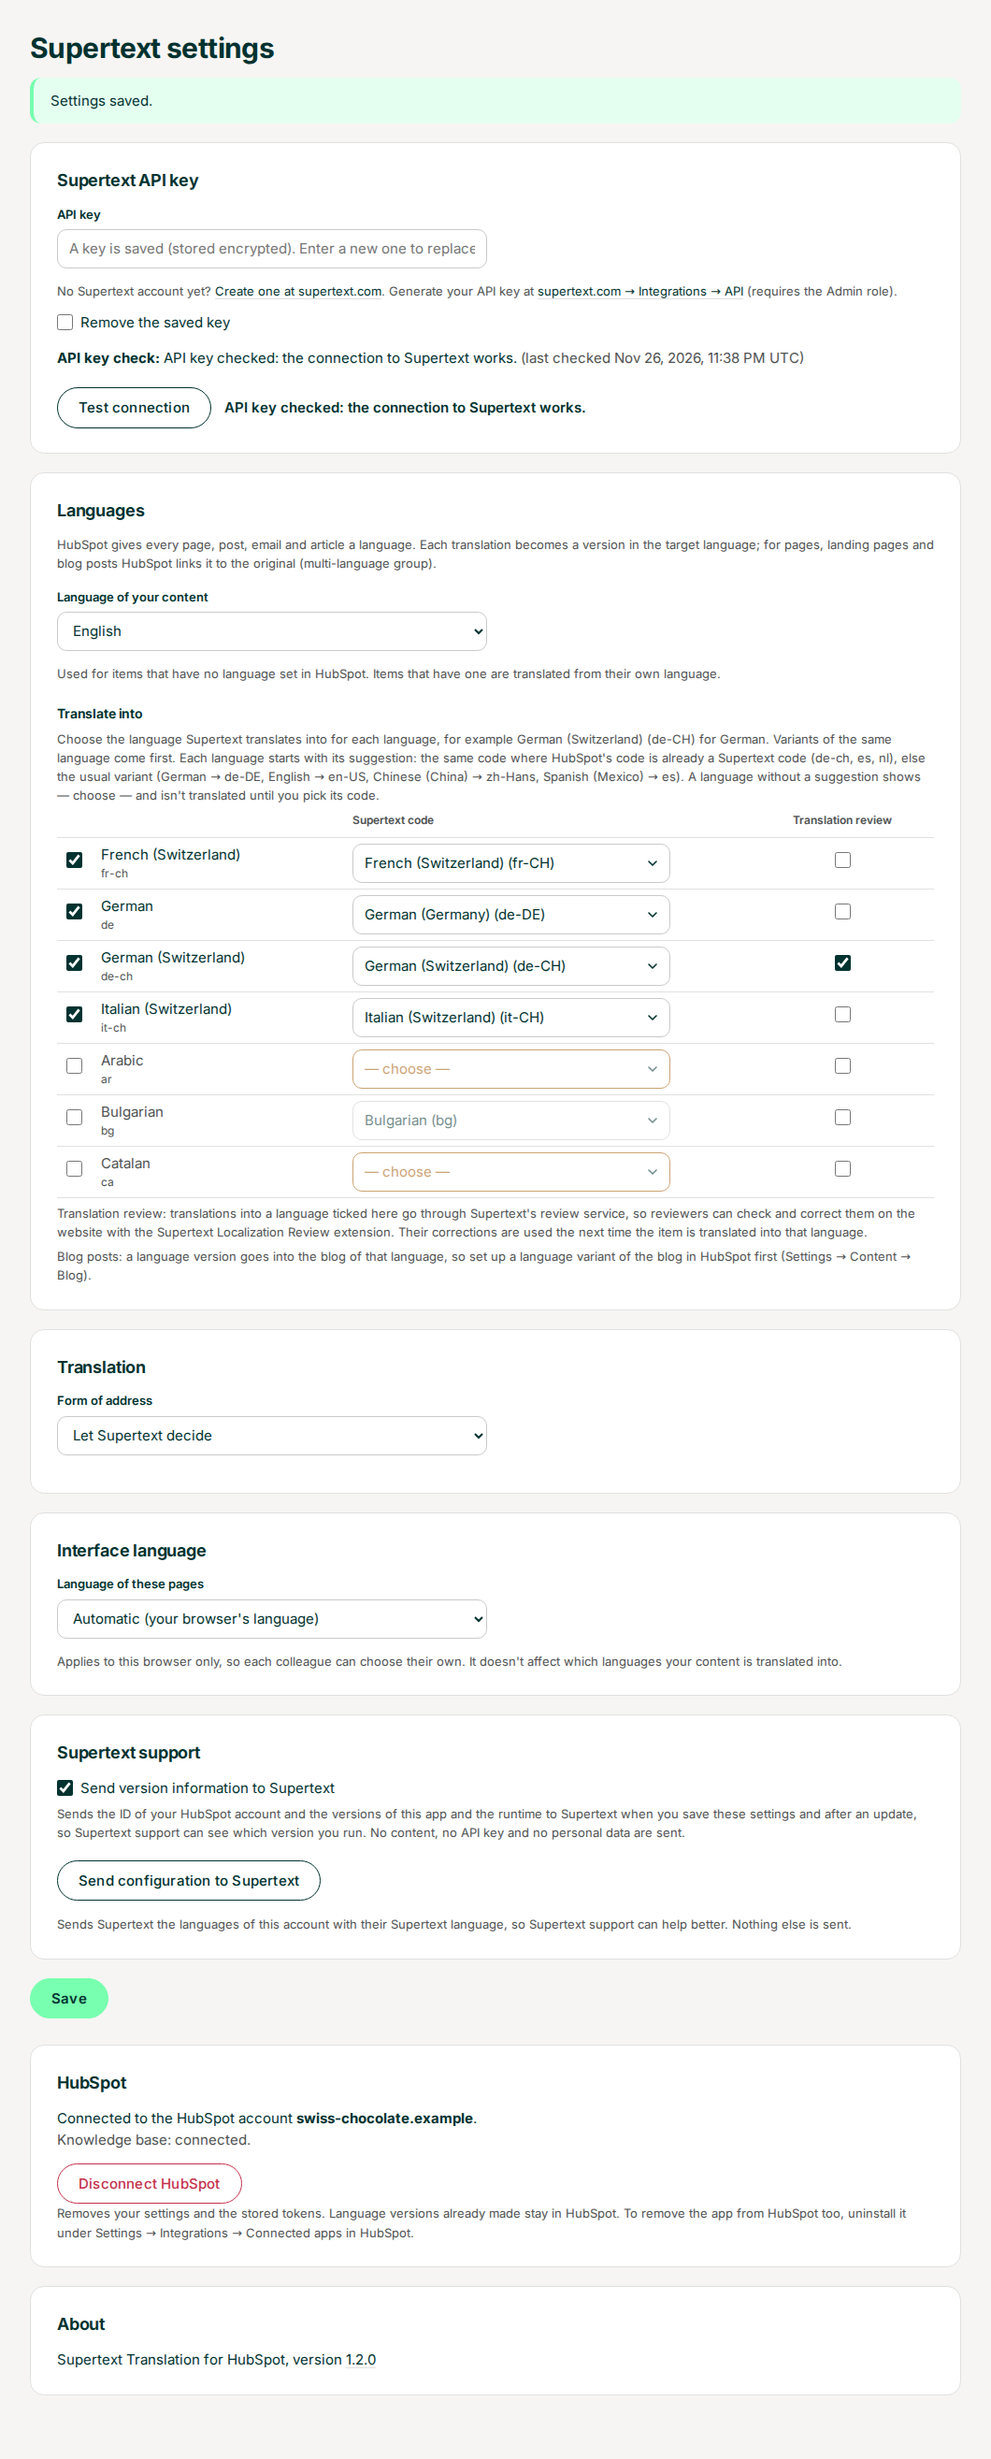
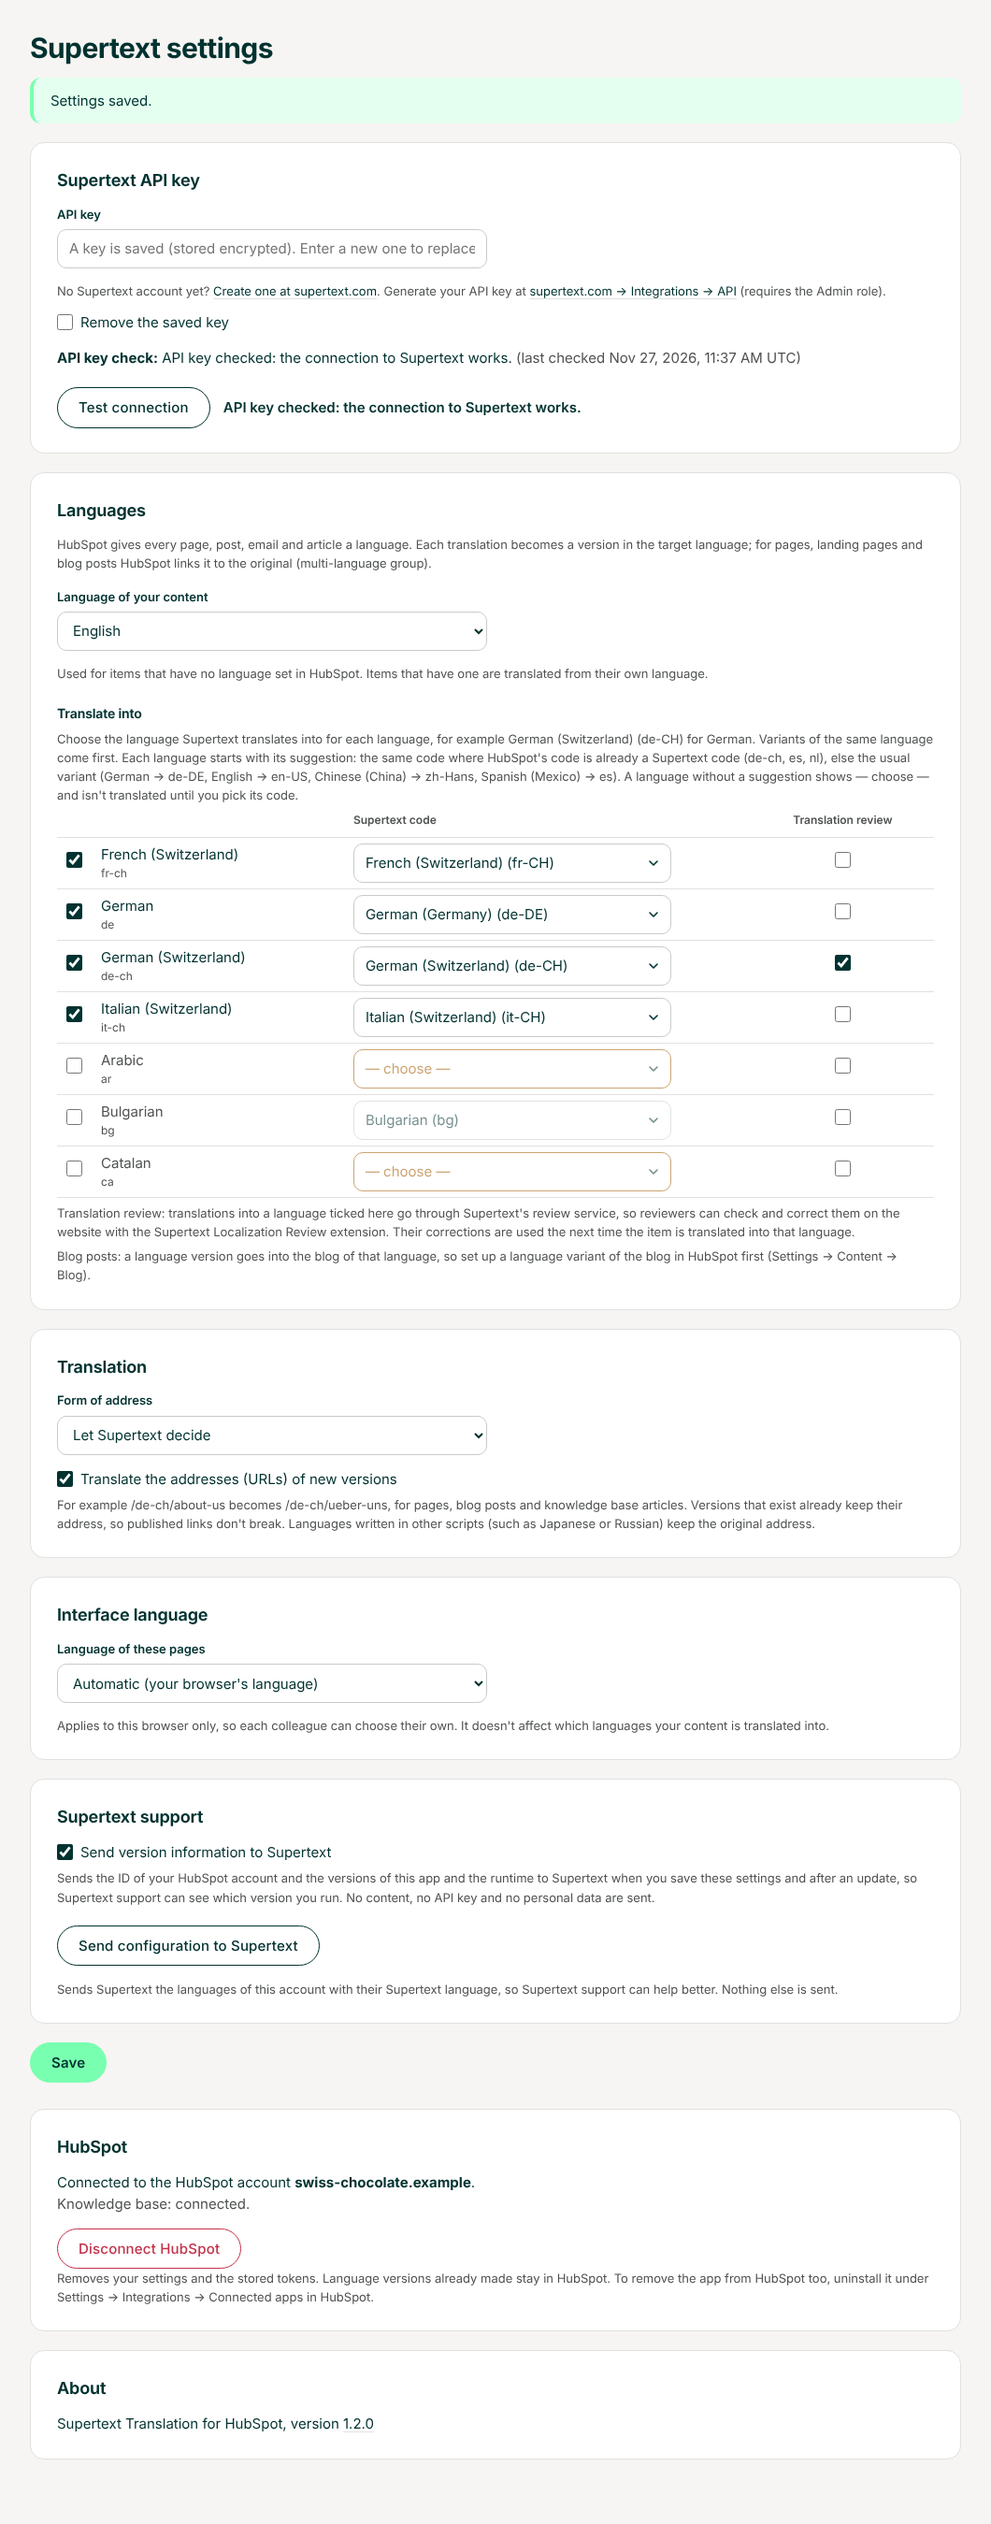
Translate the addresses (URLs) of new language versions
HubSpot gives a page or post variant the original's slug with the
language in front (de-ch/about-us) and an article translation the
original's path (seen on a real account). The last part of the address
now travels as words in the same Supertext request and comes back as an
ASCII slug in the target language (de-ch/ueber-uns, de-ch/blog/...),
written in a separate PATCH so a refused address leaves the original's.
Only for versions the app has just made: existing ones keep their
address so published links don't break. Setting under Settings ->
Translation, on by default. Live E2E checks the address.

Claude-Session: https://claude.ai/code/session_01AU3tag45efgDojCNg2Fhnj

Changed region(s): [[0.0311, 0.0, 0.934, 0.9669], [0.6538, 0.8733, 0.9028, 0.9045], [0.716, 0.655, 0.8406, 0.6862]]

diff --git a/src/translation/translate.ts b/src/translation/translate.ts
@@ -11,6 +11,7 @@ import {
 import type { Extraction } from '../hubspot/extract.js';
 import type { Politeness, SupertextClient } from '../supertext/client.js';
 import type { JobItem } from '../store/store.js';
+import { slugify, slugWords, withLastPart } from './slug.js';
 
 /**
  * One item × one language: make the language version (unless it exists), translate its texts in
@@ -43,7 +44,12 @@ export interface TranslateArgs {
   overwrite: boolean;
   /** HubSpot code of the source's language when the page has none set (create-language-variation needs it). */
   primaryLanguage: string;
+  /** Translate the address of a new version (Settings → Translation); not with an imported file. */
+  translateUrls?: boolean;
 }
+
+/** Where an item keeps its address: a page's or post's slug, an article's path; emails have none. */
+const ADDRESS: Partial<Record<Kind, 'slug' | 'path'>> = { 'site-page': 'slug', 'landing-page': 'slug', 'blog-post': 'slug', 'kb-article': 'path' };
 
 export type TranslateResult = Pick<JobItem, 'state' | 'targetId'>;
 
@@ -51,18 +57,27 @@ export async function translateItem(args: TranslateArgs): Promise<TranslateResul
   const { client, kind, source, existingId } = args;
   if (existingId && !args.overwrite) return { state: 'kept', targetId: existingId };
   const { extraction, fields } = extractItem(kind, args.draft);
+  // A new version's address travels as words with the other texts, in the same request.
+  const address = ADDRESS[kind];
+  const words =
+    address && args.translateUrls && !existingId && !args.produce ? slugWords(String(args.draft[address] ?? source[address] ?? '')) : '';
+  let slugPart = '';
 
   /** Translates and checks every segment (HubL tokens) before anything is written; returns the fields to write. */
   const translate = async (): Promise<Record<string, unknown>> => {
     const segments = extraction.segments;
+    const texts = segments.map((segment) => segment.html);
+    if (words) texts.push(words.replace(/&/g, '&amp;').replace(/</g, '&lt;'));
     const translated = args.produce
       ? args.produce(extraction)
-      : segments.length === 0
+      : texts.length === 0
         ? []
-        : await args.supertext!.translateSegments(
-            segments.map((segment) => segment.html),
-            { targetLanguage: args.supertextTarget, sourceLanguage: args.sourceLanguage, politeness: args.politeness },
-          );
+        : await args.supertext!.translateSegments(texts, {
+            targetLanguage: args.supertextTarget,
+            sourceLanguage: args.sourceLanguage,
+            politeness: args.politeness,
+          });
+    if (words) slugPart = slugify(translated.pop() ?? '', args.language);
     extraction.apply(translated);
     return fields();
   };
@@ -85,6 +100,14 @@ export async function translateItem(args: TranslateArgs): Promise<TranslateResul
     // Don't leave an untranslated copy behind.
     await removeItem(client, kind, String(created.id)).catch(() => undefined);
     throw error;
+  }
+  if (address && slugPart) {
+    // On its own: if HubSpot refuses the address (one that is taken), the version keeps the original's.
+    const current = String(created[address] ?? source[address] ?? '');
+    const translated = withLastPart(current, slugPart);
+    if (current && translated !== current) {
+      await updateDraft(client, kind, String(created.id), { [address]: translated }).catch(() => undefined);
+    }
   }
   return { state: 'created', targetId: String(created.id) };
 }

diff --git a/tests/flow.test.ts b/tests/flow.test.ts
@@ -92,6 +92,37 @@ describe('website pages', () => {
     expect(after).not.toContain('Über uns'); // variants aren't listed as items of their own
   });
 
+  it("translates a new version's address, and keeps the address of an existing one", async () => {
+    const env = setup();
+    await env.connect();
+    await env.saveSettings([...STANDARD_SETTINGS, ['target', 'it-ch']]);
+    await env.translate('site-page', '101', ['de-ch', 'fr-ch', 'it-ch']);
+    expect(version(env, 'site-page', '101', 'de-ch')!.slug).toBe('de-ch/ueber-uns');
+    expect(version(env, 'site-page', '101', 'fr-ch')!.slug).toBe('fr-ch/a-propos-de-nous');
+    expect(version(env, 'site-page', '101', 'it-ch')!.slug).toBe('it-ch/chi-siamo');
+    // The words travel in the same Supertext request as the other texts.
+    expect(env.supertext.documents.length).toBe(3);
+
+    // An existing version keeps its address, even when its draft is translated again.
+    const german = version(env, 'site-page', '101', 'de-ch')!;
+    env.hubspot.edit(String(german.id), { slug: 'de-ch/unsere-geschichte' });
+    await env.translate('site-page', '101', ['de-ch'], true);
+    expect(version(env, 'site-page', '101', 'de-ch')!.slug).toBe('de-ch/unsere-geschichte');
+
+    // Blog posts keep the blog's part of the address.
+    await env.translate('blog-post', '301', ['de-ch']);
+    expect(version(env, 'blog-post', '301', 'de-ch')!.slug).toBe('de-ch/blog/roesten');
+  });
+
+  it('keeps the original address when the setting is off', async () => {
+    const env = setup();
+    await env.connect();
+    await env.saveSettings(STANDARD_SETTINGS.filter(([name]) => name !== 'translateUrls'));
+    await env.translate('site-page', '101', ['de-ch']);
+    expect(version(env, 'site-page', '101', 'de-ch')!.slug).toBe('de-ch/about-us');
+    expect((await env.store.getAccount(PORTAL_ID))!.translateUrls).toBe(false);
+  });
+
   it('keeps existing versions unless asked to update their drafts', async () => {
     const env = setup();
     await env.connect();
@@ -232,7 +263,8 @@ describe('knowledge base', () => {
       title: 'Wie verfolge ich meine Bestellung?',
       subtitle: 'Finden Sie Ihr Paket mit wenigen Klicks',
       metaDescription: 'Ihre Schokoladenbestellung verfolgen',
-      path: 'track-my-order',
+      // The address is translated too (Settings → Translation, on by default).
+      path: 'bestellung-verfolgen',
       state: 'DRAFT',
       translationOfId: '501',
       tagIds: [],

diff --git a/src/translation/slug.ts b/src/translation/slug.ts
@@ -1,0 +1,47 @@
+// Translated addresses: the last part of a slug ("about-us") travels to Supertext as words
+// ("about us") with the other texts, and comes back as a slug in the target language
+// ("ueber-uns"). ASCII only, as HubSpot's own slugs: umlauts are written out in German
+// (ü → ue), other accents dropped (é → e). A language whose words don't fit in ASCII
+// (Japanese, Russian, Greek …) keeps the original slug.
+
+/** The words of a slug's last part ("blog/how-we-roast" → "how we roast"); '' if there are none. */
+export function slugWords(slug: string): string {
+  const last = slug.split('/').filter(Boolean).pop() ?? '';
+  // HubSpot's placeholder for a post without a title yet.
+  if (/^-?temporary-slug-/.test(last)) return '';
+  return last.replace(/[-_]+/g, ' ').trim();
+}
+
+const ENTITIES: Record<string, string> = { amp: '&', lt: '<', gt: '>', quot: '"', apos: "'", nbsp: ' ' };
+
+/** Translated words → a slug part ("Über uns" → "ueber-uns"); '' if nothing ASCII is left. */
+export function slugify(text: string, language: string): string {
+  let s = text
+    .replace(/<[^>]*>/g, ' ')
+    .replace(/&(#\d+|#x[\da-f]+|\w+);/gi, (all, name: string) =>
+      name[0] === '#' ? String.fromCodePoint(Number(name[1] === 'x' || name[1] === 'X' ? `0${name.slice(1)}` : name.slice(1))) : ENTITIES[name.toLowerCase()] ?? all,
+    )
+    .toLowerCase();
+  if (/^(de|gsw)\b/i.test(language)) s = s.replace(/ä/g, 'ae').replace(/ö/g, 'oe').replace(/ü/g, 'ue');
+  s = s
+    .replace(/ß/g, 'ss')
+    .replace(/æ/g, 'ae')
+    .replace(/ø/g, 'o')
+    .replace(/œ/g, 'oe')
+    .replace(/ł/g, 'l')
+    .replace(/đ/g, 'd')
+    .normalize('NFKD')
+    .replace(/[̀-ͯ]/g, '')
+    .replace(/['’]/g, '')
+    .replace(/[^a-z0-9]+/g, '-')
+    .replace(/^-+|-+$/g, '');
+  if (s.length > 80) s = s.slice(0, 80).replace(/-[^-]*$/, '');
+  return s;
+}
+
+/** The new slug: the version's own prefix ("de-ch/blog/") with the translated last part. */
+export function withLastPart(slug: string, part: string): string {
+  const parts = slug.split('/');
+  parts[parts.length - 1] = part;
+  return parts.join('/');
+}

diff --git a/tests/slug.test.ts b/tests/slug.test.ts
@@ -1,0 +1,37 @@
+import { describe, expect, it } from 'vitest';
+import { slugify, slugWords, withLastPart } from '../src/translation/slug.js';
+
+describe('translated addresses', () => {
+  it("takes the words of a slug's last part", () => {
+    expect(slugWords('blog/how-we-roast-our-cocoa-beans')).toBe('how we roast our cocoa beans');
+    expect(slugWords('en/about_us')).toBe('about us');
+    expect(slugWords('blog/-temporary-slug-eedeba05-30b4')).toBe('');
+    expect(slugWords('')).toBe('');
+  });
+
+  it('makes an ASCII slug in the way of the language', () => {
+    expect(slugify('Über uns', 'de-ch')).toBe('ueber-uns');
+    expect(slugify('Fünf Tipps zum Aufbewahren von Schokolade', 'de')).toBe('fuenf-tipps-zum-aufbewahren-von-schokolade');
+    expect(slugify('À propos de nous', 'fr-ch')).toBe('a-propos-de-nous');
+    expect(slugify('Calendario dell’Avvento 2026', 'it-ch')).toBe('calendario-dellavvento-2026');
+    expect(slugify('Ödeme &amp; teslimat', 'tr')).toBe('odeme-teslimat');
+    expect(slugify('Straße', 'de')).toBe('strasse');
+    expect(slugify('Łódź', 'pl')).toBe('lodz');
+  });
+
+  it("gives nothing for a script that doesn't fit in an address, so the original stays", () => {
+    expect(slugify('私たちについて', 'ja')).toBe('');
+    expect(slugify('О нас', 'ru')).toBe('');
+  });
+
+  it("keeps the version's own prefix", () => {
+    expect(withLastPart('de-ch/blog/how-we-roast', 'wie-wir-roesten')).toBe('de-ch/blog/wie-wir-roesten');
+    expect(withLastPart('track-my-order', 'bestellung-verfolgen')).toBe('bestellung-verfolgen');
+  });
+
+  it('keeps addresses short', () => {
+    const long = slugify('ein '.repeat(40) + 'Ende', 'de');
+    expect(long.length).toBeLessThanOrEqual(80);
+    expect(long.endsWith('-')).toBe(false);
+  });
+});

diff --git a/tests/standin/hubspot.ts b/tests/standin/hubspot.ts
@@ -39,6 +39,8 @@ export interface HubSpotStandin {
   withoutKnowledgeBase(): void;
   /** Sets an item's state, as publishing or sending it in HubSpot would. */
   setState(id: string, state: string): void;
+  /** Changes fields of an item, live and draft (an editor's change in HubSpot). */
+  edit(id: string, fields: Record<string, unknown>): void;
 }
 
 const PATHS: [Kind, RegExp][] = [
@@ -110,6 +112,10 @@ export function createHubSpotStandin(): HubSpotStandin {
     },
     withoutKnowledgeBase: () => {
       kb = false;
+    },
+    edit: (id, fields) => {
+      const entry = entries.get(id);
+      if (entry) for (const item of [entry.live, entry.draft]) Object.assign(item, structuredClone(fields));
     },
     setState: (id, value) => {
       const entry = entries.get(id);
@@ -205,6 +211,8 @@ export function createHubSpotStandin(): HubSpotStandin {
         }
         const id = String(nextId++);
         const copy: Item = { ...structuredClone(source.draft), id, language, translatedFromId: source.live.id, state: 'DRAFT', currentlyPublished: false };
+        // HubSpot puts the language in front of the original's slug ("blog/roasting" → "de-ch/blog/roasting", seen 26 November 2026).
+        if (typeof source.draft.slug === 'string') copy.slug = `${language}/${source.draft.slug}`;
         entries.set(id, { kind, live: copy, draft: structuredClone(copy), archived: false, group: source.group });
         return json(view(entries.get(id)!, 'live'));
       }

diff --git a/tests/e2e/live.ts b/tests/e2e/live.ts
@@ -198,6 +198,17 @@ function versions(kind: Kind, id: string): Map<string, Item[]> {
 /** Checks one language version against its source. */
 function checkVersion(tag: string, kind: Kind, source: Item, version: Item, lang: string): void {
   check(`${tag}: a draft, not published or sent`, version.state === 'DRAFT' && !version.currentlyPublished && !version.isPublished, String(version.state));
+  // Translate the addresses (on by default): a new version gets an ASCII address in its language, with HubSpot's prefix.
+  const address = kind === 'kb-article' ? 'path' : kind === 'email' ? '' : 'slug';
+  if (address && String(source[address] ?? '')) {
+    const was = String(source[address]).split('/').pop() ?? '';
+    const now = String(version[address] ?? '');
+    const last = now.split('/').pop() ?? '';
+    // A word can rightly stay the same ("contact" in French), so an unchanged one is only noted.
+    check(`${tag}: the address is a clean address`, /^[a-z0-9]+(-[a-z0-9]+)*$/.test(last), `${source[address]} → ${now}`);
+    if (last === was) note(`${tag}: the address "${was}" stayed the same`);
+    if (address === 'slug') check(`${tag}: the address keeps the language prefix`, now.startsWith(`${lang}/`), now);
+  }
   const before = texts(kind, source);
   const after = texts(kind, version);
   if (!check(`${tag}: the same texts`, sorted([...after.keys()]) === sorted([...before.keys()]), `${after.size}/${before.size}`)) return;

diff --git a/src/i18n/fr.ts b/src/i18n/fr.ts
@@ -125,6 +125,9 @@ export const fr: Messages = {
   'settings.style.default': 'Laisser Supertext décider',
   'settings.style.more': 'Formelle (p. ex. « vous »)',
   'settings.style.less': 'Informelle (p. ex. « tu »)',
+  'settings.style.urls': "Traduire les adresses (URL) des nouvelles versions",
+  'settings.style.urlsHelp':
+    "Par exemple, /fr-ch/about-us devient /fr-ch/a-propos-de-nous, pour les pages, les articles de blog et les articles de la base de connaissances. Les versions existantes gardent leur adresse, pour que les liens publiés restent valables. Les langues écrites dans un autre alphabet (japonais ou russe, par exemple) gardent l’adresse d’origine.",
   'settings.style.notOffered':
     'Supertext ne propose pas de forme d’adresse formelle ou informelle pour {languages} ; ces langues sont traduites avec le réglage par défaut de Supertext.',
   'settings.keyCheck.label': 'Vérification de la clé API :',

diff --git a/src/i18n/it.ts b/src/i18n/it.ts
@@ -125,6 +125,9 @@ export const it: Messages = {
   'settings.style.default': 'Lasciare decidere a Supertext',
   'settings.style.more': 'Formale (p. es. «Lei»)',
   'settings.style.less': 'Informale (p. es. «tu»)',
+  'settings.style.urls': "Tradurre gli indirizzi (URL) delle nuove versioni",
+  'settings.style.urlsHelp':
+    "Per esempio /it-ch/about-us diventa /it-ch/chi-siamo, per pagine, articoli del blog e articoli della knowledge base. Le versioni già esistenti mantengono il loro indirizzo, così i link pubblicati continuano a funzionare. Le lingue scritte con un altro alfabeto (come giapponese o russo) mantengono l’indirizzo originale.",
   'settings.style.notOffered':
     'Supertext non offre una forma di cortesia formale o informale per {languages}; queste lingue vengono tradotte con l’impostazione predefinita di Supertext.',
   'settings.keyCheck.label': 'Verifica della chiave API:',

diff --git a/src/store/store.ts b/src/store/store.ts
@@ -35,6 +35,11 @@ export interface Account {
    * through Supertext's review service (SUPERTEXT_REVIEW_URL), the others directly to Supertext.
    */
   reviewLanguages: string[];
+  /**
+   * Translate the address of new language versions: the last part of a page's or post's slug
+   * and an article's path ("about-us" → "ueber-uns"). Existing versions keep theirs.
+   */
+  translateUrls: boolean;
   /** "Send version information to Supertext" (SUPERTEXT_VERSION_REPORTS=0 turns it off for all accounts). */
   versionReports: boolean;
   /** The Commando Center reporter's state (Plugin Health's ReporterState JSON); see reporting.ts. */
@@ -55,6 +60,7 @@ export const defaultAccount = (accountId: string): Account => ({
   targets: [],
   languageCodes: {},
   reviewLanguages: [],
+  translateUrls: true,
   versionReports: true,
   reporter: null,
   connectedAt: new Date().toISOString(),

diff --git a/src/i18n/de.ts b/src/i18n/de.ts
@@ -128,6 +128,9 @@ export const de: Messages = {
   'settings.style.default': 'Supertext entscheiden lassen',
   'settings.style.more': 'Formell (z. B. «Sie»)',
   'settings.style.less': 'Informell (z. B. «du»)',
+  'settings.style.urls': "Adressen (URLs) neuer Versionen übersetzen",
+  'settings.style.urlsHelp':
+    "Zum Beispiel wird /de-ch/about-us zu /de-ch/ueber-uns, bei Seiten, Blogbeiträgen und Wissensdatenbank-Artikeln. Bestehende Versionen behalten ihre Adresse, damit veröffentlichte Links weiter funktionieren. Sprachen mit anderer Schrift (etwa Japanisch oder Russisch) behalten die ursprüngliche Adresse.",
   'settings.style.notOffered':
     'Supertext bietet für {languages} keine formelle oder informelle Anrede an; diese Sprachen werden mit der Vorgabe von Supertext übersetzt.',
   'settings.keyCheck.label': 'Prüfung des API-Schlüssels:',

diff --git a/src/i18n/en.ts b/src/i18n/en.ts
@@ -133,6 +133,9 @@ export const en = {
   'settings.style.default': 'Let Supertext decide',
   'settings.style.more': 'Formal (e.g. German “Sie”)',
   'settings.style.less': 'Informal (e.g. German “du”)',
+  'settings.style.urls': "Translate the addresses (URLs) of new versions",
+  'settings.style.urlsHelp':
+    "For example /de-ch/about-us becomes /de-ch/ueber-uns, for pages, blog posts and knowledge base articles. Versions that exist already keep their address, so published links don't break. Languages written in other scripts (such as Japanese or Russian) keep the original address.",
   'settings.style.notOffered':
     "Supertext offers no formal or informal address for {languages}; these are translated with Supertext's default.",
   'settings.keyCheck.label': 'API key check:',

diff --git a/src/views/settings.tsx b/src/views/settings.tsx
@@ -258,6 +258,11 @@ export function SettingsPage(props: SettingsPageProps) {
           {account.tone !== 'default' && noPoliteness.length > 0 && (
             <p class="help">{t.t('settings.style.notOffered', { languages: names(noPoliteness) })}</p>
           )}
+          <label class="inline">
+            <input type="checkbox" name="translateUrls" value="1" checked={account.translateUrls} />
+            {t.t('settings.style.urls')}
+          </label>
+          <p class="help">{t.t('settings.style.urlsHelp')}</p>
         </section>
 
         <section class="card">
